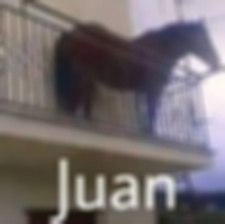
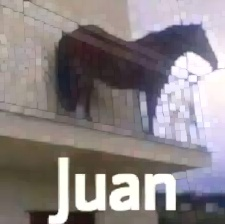
Try and catch (done)

diff --git a/filter/dilatation.py b/filter/dilatation.py
@@ -1,18 +1,26 @@
 import numpy as np
 import cv2
 
+
 img = cv2.imread('../img/juan.jpg', 1)
-cv2.imshow('Original', img)
 
-kernel = np.ones((5, 5), 'uint8')
+try:
+    cv2.imshow('Original', img)
 
-dilate_img = cv2.dilate(img, kernel, iterations=1)
-cv2.imshow('Dilated Image', dilate_img)
-cv2.waitKey(0)
-cv2.destroyAllWindows()
+    kernel = np.ones((5, 5), 'uint8')
 
-result = cv2.imwrite(r'../img/blurJuan.jpg', dilate_img)
-if result:
-    print("File saved successfully")
-else:
-    print("Error in saving file")
+    dilate_img = cv2.dilate(img, kernel, iterations=1)
+    cv2.imshow('Dilated Image', dilate_img)
+    cv2.waitKey(10000)
+    cv2.destroyAllWindows()
+except cv2.error as e:
+    print("Image not found")
+
+try:
+    result = cv2.imwrite(r'../img/output/blurJuan.jpg', dilate_img)
+    if result:
+        print("File saved successfully")
+    else:
+        print("Error in saving file")
+except NameError as n:
+    print("Wrong directory")

diff --git a/filter/grayscale.py b/filter/grayscale.py
@@ -1,18 +1,31 @@
+from cmath import e
+
 import cv2
 
+try:
+    image = cv2.imread('img/juan.jpg')
+    gray = cv2.cvtColor(image, cv2.COLOR_BGR2GRAY)
 
-image = cv2.imread('../img/juan.jpg')
-gray = cv2.cvtColor(image, cv2.COLOR_BGR2GRAY)
 
-cv2.imshow('Original image', image)
-cv2.imshow('Gray image', gray)
+    cv2.imshow('Original image', image)
+    cv2.imshow('Gray image', gray)
 
-cv2.waitKey(2000)
-cv2.destroyAllWindows()
+    cv2.waitKey(2000)
+    cv2.destroyAllWindows()
 
-result = cv2.imwrite(r'../img/grayJuan.jpg', gray)
-if result:
-    print("File saved successfully")
-else:
-    print("Error in saving file")
+except cv2.error as e:
+    print("Image not found")
+
+
+try:
+    result = cv2.imwrite(r'./output/grayJuan.jpg', gray)
+    if result:
+        print("File saved successfully")
+    else:
+        print("Error in saving file")
+except NameError as n:
+    print("Wrong directory")
+
+
+
 

diff --git a/filter/gaussian_blur.py b/filter/gaussian_blur.py
@@ -1,18 +1,25 @@
 import cv2
 import numpy
 
-
 src = cv2.imread('../img/juan.jpg', cv2.IMREAD_UNCHANGED)
-dst = cv2.GaussianBlur(src,(9,9),cv2.BORDER_DEFAULT)
+ksize1 = 9
+ksize2 = 9
 
-cv2.imshow("Gaussian Smoothing",numpy.hstack((src, dst)))
+try:
+    dst = cv2.GaussianBlur(src, (ksize1, ksize2), cv2.BORDER_DEFAULT)
 
+    cv2.imshow("Gaussian Smoothing", numpy.hstack((src, dst)))
 
-cv2.waitKey(10000)
-cv2.destroyAllWindows()
+    cv2.waitKey(10000)
+    cv2.destroyAllWindows()
+except cv2.error as e:
+    print("Image not found")
 
-result = cv2.imwrite(r'../img/blurJuan.jpg', dst)
-if result:
-    print("File saved successfully")
-else:
-    print("Error in saving file")
+try:
+    result = cv2.imwrite(r'../img/output/blurJuan.jpg', dst)
+    if result:
+        print("File saved successfully")
+    else:
+        print("Error in saving file")
+except NameError as n:
+    print("Wrong directory")
